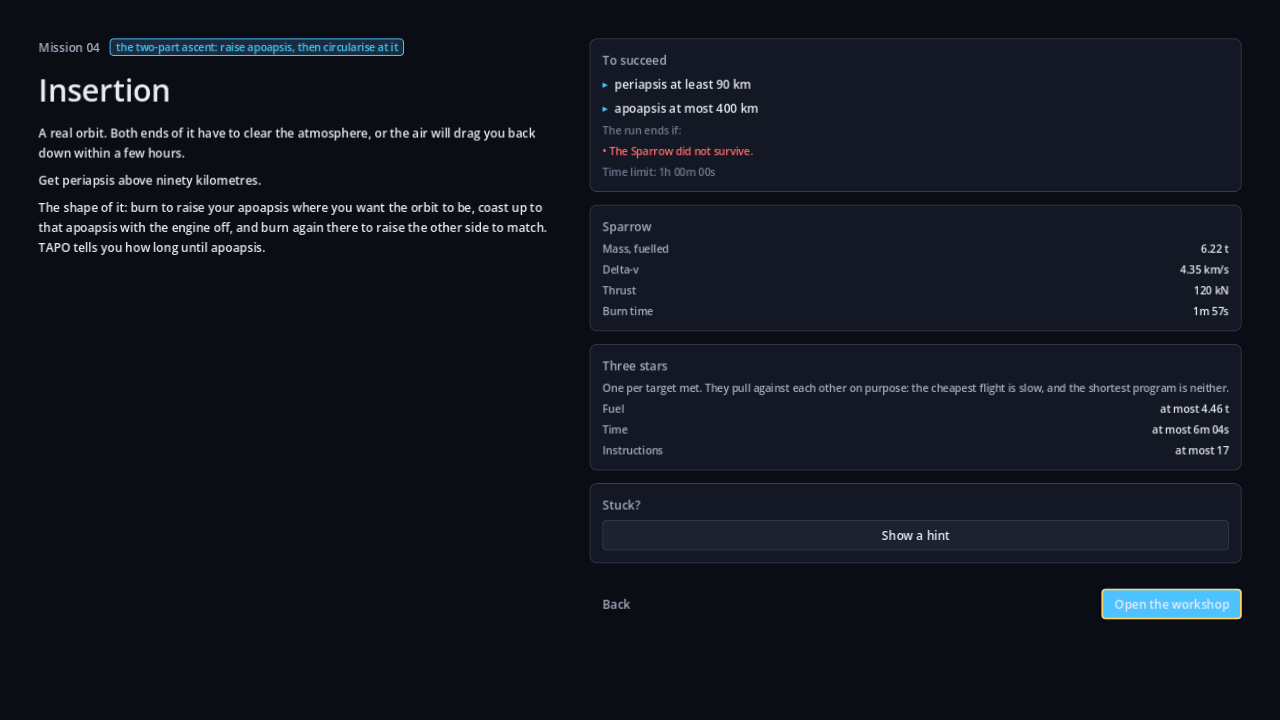
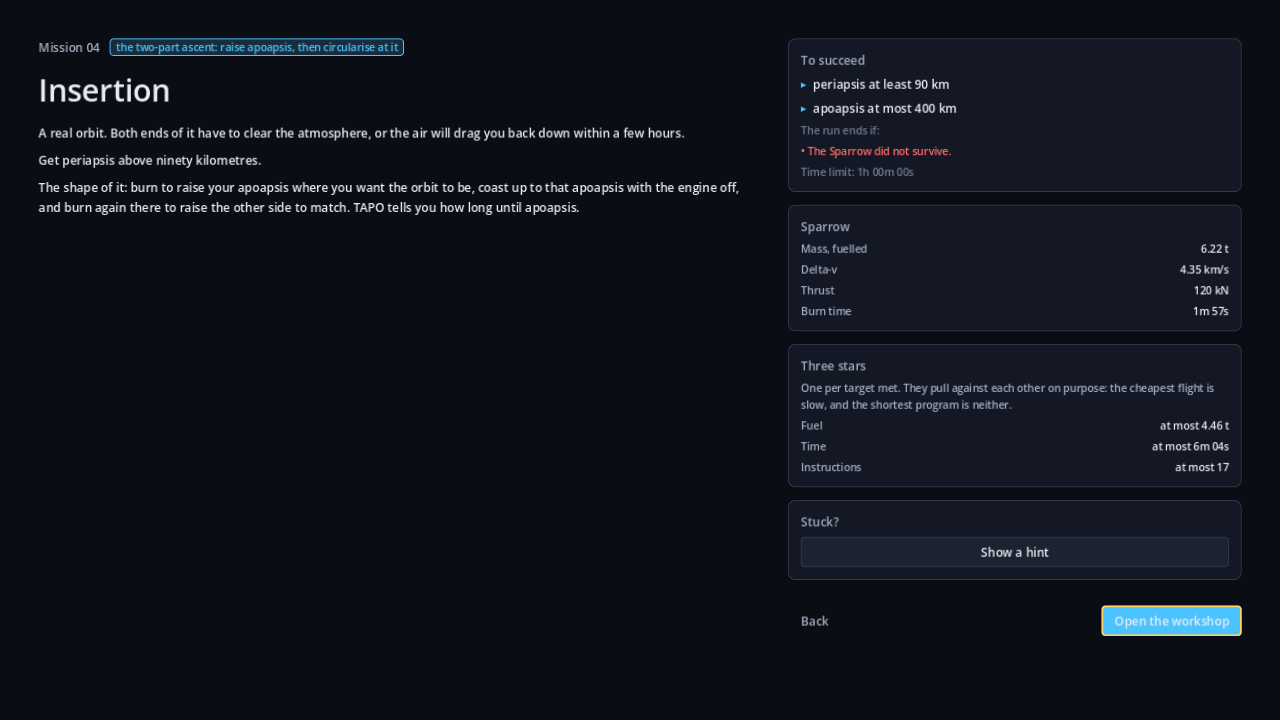
fix(ui): a second layout pass, at width this time
The layout check added last time measured only height. That is how it passed a
results screen whose right-hand column ran off the side of the canvas at 130%
and 160% — and since nothing scrolls sideways, that column was not off-screen,
it was gone. The check measures both dimensions now, and each of the following
is something it caught.

**The results screen opened scrolled past its own headline.** Giving every page
`follow_focus` was right for navigation — tab to something below the fold and it
comes into view — and wrong for the focus a screen sets on itself as it opens.
The results screen focuses its primary button, which sits at the bottom of a
page that overflows at larger scales, so arriving at the screen scrolled
straight past "Objective complete" and the star count to land on a row of
buttons. UIKit.focus_start() focuses the control and then returns the page to
the top; tabbing still brings things into view. The briefing had the same shape
and the same fix.

**A paragraph that could not wrap pushed a card wider than the screen.**
UIKit.small() never set autowrap, so a sentence's minimum width was the whole
sentence, and a card holding one could not be narrower than that. There is now
UIKit.note() for prose, which wraps, while small() stays as it was for inline
values. Both exist because making *everything* wrap — which I tried first —
squeezed "4.38 t" in a stat row down to one character per line: a label that
[…]

diff --git a/CHANGELOG.md b/CHANGELOG.md
@@ -168,6 +168,30 @@ anything can read aloud. They moved to the bottom edge on a dark backing plate
 and two marks on top of each other read as neither — and a one-cell part gets
 two letters rather than three, which is all that fits at a size worth drawing.
 
+### Fixed — a second layout pass, at width this time
+
+The first layout check measured only height, which is how it passed a results
+screen whose right-hand column ran off the side of the canvas at 130% and 160%.
+Nothing scrolls sideways, so that content was not off-screen, it was gone. The
+check measures both now, and caught each of these:
+
+- **The results screen opened scrolled past its own headline.** Giving every
+  page `follow_focus` was right for navigation and wrong for the focus a screen
+  sets on itself: the results screen focuses its primary button, which sits at
+  the bottom of a page that overflows at larger scales, so opening it scrolled
+  straight past "Objective complete" and the star count. `UIKit.focus_start()`
+  focuses the control and then puts the page back to the top; tabbing still
+  brings things into view. The briefing had the same shape and the same fix.
+- **A paragraph that could not wrap pushed a card wider than the screen.**
+  `UIKit.small()` did not set autowrap, so a sentence's minimum width was the
+  whole sentence. There is now `UIKit.note()` for prose, which wraps, and
+  `small()` stays as it was for inline values — briefly making *everything*
+  wrap squeezed "4.38 t" in a stat row down to one character per line, which is
+  the other half of why these are two functions and not one.
+- **Two columns became one when two will not fit.** The results screen's
+  columns are a flow container now, so at 160% the second sits underneath
+  instead of off the edge.
+
 ### Changed — what the map costs to draw
 
 - The trail was drawing **one `draw_circle` per powered sample, every frame**.
